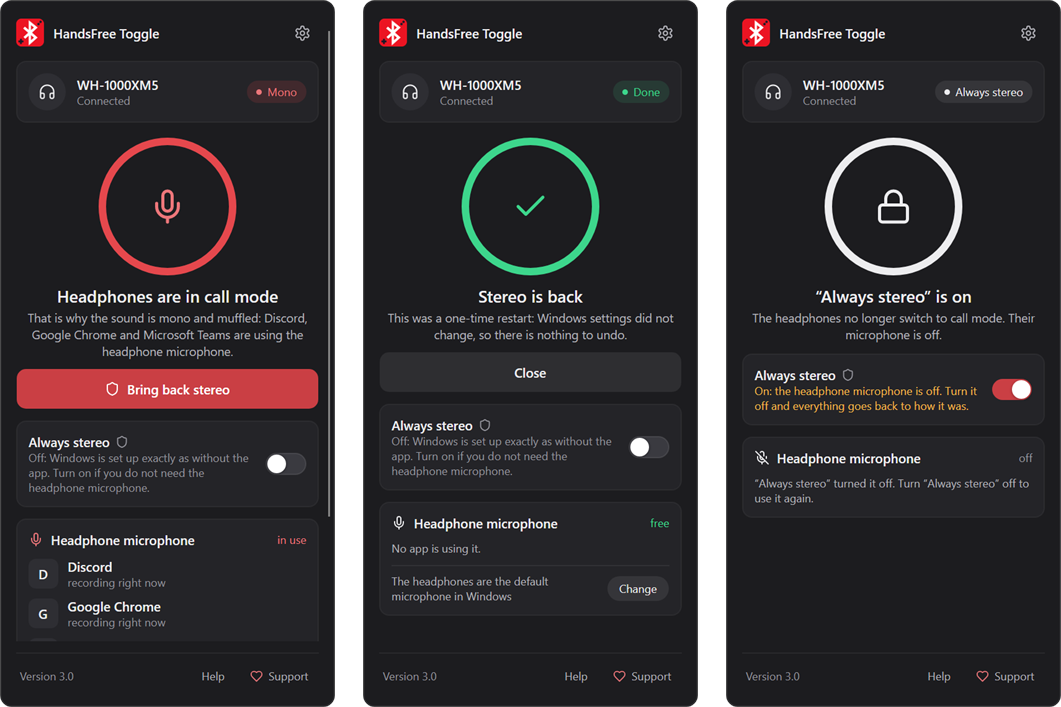
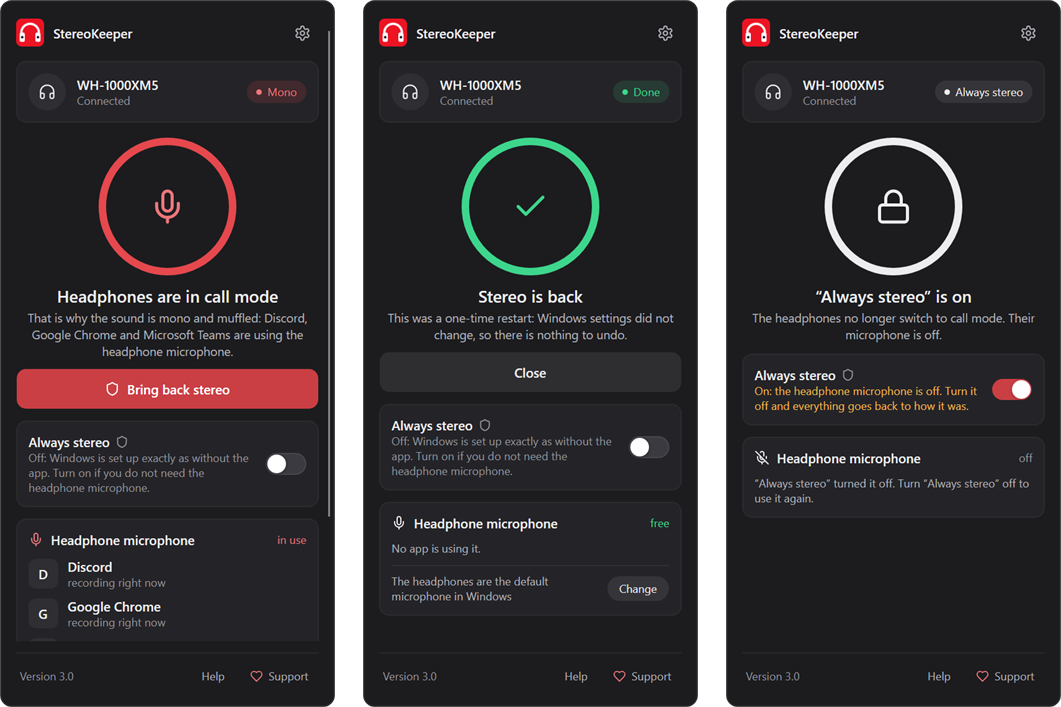
docs: describe StereoKeeper in the README

Changed region(s): [[0.6843, 0.0311, 0.8398, 0.0622], [0.3421, 0.0311, 0.4976, 0.0622], [0.0, 0.0311, 0.1555, 0.0622]]

diff --git a/README.md b/README.md
@@ -1,8 +1,10 @@
 <p align="center">
-  <img src="BluetoothHandsFreeToggle/Assets/AppIcon.png" width="168" alt="BluetoothHandsFreeToggle Windows Bluetooth audio fix logo">
+  <img src="StereoKeeper/Assets/AppIcon.png" width="168" alt="StereoKeeper logo: headphones that stay in stereo on Windows">
 </p>
 
-<h1 align="center">BluetoothHandsFreeToggle</h1>
+<h1 align="center">StereoKeeper</h1>
+
+<p align="center"><sub>Formerly BluetoothHandsFreeToggle</sub></p>
 
 <p align="center">
   <strong>Fix low-quality Bluetooth headset audio and stuck Hands-Free mode on Windows 10 and Windows 11.</strong>
@@ -13,17 +15,17 @@
 </p>
 
 <p align="center">
-  <a href="https://github.com/Avazbek22/BluetoothHandsFreeToggle/releases/latest">
-    <img src="https://img.shields.io/github/v/release/Avazbek22/BluetoothHandsFreeToggle?style=flat-square&color=2ea043&label=release" alt="Latest release">
+  <a href="https://github.com/Avazbek22/StereoKeeper/releases/latest">
+    <img src="https://img.shields.io/github/v/release/Avazbek22/StereoKeeper?style=flat-square&color=2ea043&label=release" alt="Latest release">
   </a>
-  <a href="https://github.com/Avazbek22/BluetoothHandsFreeToggle/releases">
-    <img src="https://img.shields.io/github/downloads/Avazbek22/BluetoothHandsFreeToggle/total?style=flat-square&color=0078d4" alt="Total downloads">
+  <a href="https://github.com/Avazbek22/StereoKeeper/releases">
+    <img src="https://img.shields.io/github/downloads/Avazbek22/StereoKeeper/total?style=flat-square&color=0078d4" alt="Total downloads">
   </a>
   <img src="https://img.shields.io/badge/Windows-10%20%7C%2011-0078D4?style=flat-square&logo=windows11&logoColor=white" alt="Windows 10 and 11">
   <img src="https://img.shields.io/badge/.NET-10-512BD4?style=flat-square&logo=dotnet&logoColor=white" alt=".NET 10">
   <img src="https://img.shields.io/badge/languages-30-EF2D5E?style=flat-square" alt="30 interface languages">
-  <img src="https://img.shields.io/github/license/Avazbek22/BluetoothHandsFreeToggle?style=flat-square" alt="MIT license">
-  <img src="https://img.shields.io/github/repo-size/Avazbek22/BluetoothHandsFreeToggle?style=flat-square" alt="Repository size">
+  <img src="https://img.shields.io/github/license/Avazbek22/StereoKeeper?style=flat-square" alt="MIT license">
+  <img src="https://img.shields.io/github/repo-size/Avazbek22/StereoKeeper?style=flat-square" alt="Repository size">
 </p>
 
 <p align="center">
@@ -42,7 +44,7 @@
 
 > **Call of Duty, Warzone, Discord, or another game opened your Bluetooth microphone—and now the whole game sounds muffled, compressed, or mono?**
 
-BluetoothHandsFreeToggle is a free, open-source Windows tray app that fixes Bluetooth headphones stuck in mono, muffled "phone call" sound on Windows 10 and Windows 11. Windows switches headphones from high-quality A2DP stereo to the Hands-Free Profile (HFP) as soon as Call of Duty voice chat, Discord, a browser, or recording software opens the headset microphone—and sometimes fails to switch back. The app shows when your headphones drop into call mode, names the app that took the microphone, and brings stereo back with one click. **Always stereo** keeps it that way if you use another microphone, and turning it off puts Windows back exactly as it was.
+StereoKeeper (formerly BluetoothHandsFreeToggle) is a free, open-source Windows tray app that fixes Bluetooth headphones stuck in mono, muffled "phone call" sound on Windows 10 and Windows 11. Windows switches headphones from high-quality A2DP stereo to the Hands-Free Profile (HFP) as soon as Call of Duty voice chat, Discord, a browser, or recording software opens the headset microphone—and sometimes fails to switch back. The app shows when your headphones drop into call mode, names the app that took the microphone, and brings stereo back with one click. **Always stereo** keeps it that way if you use another microphone, and turning it off puts Windows back exactly as it was.
 
 ---
 
@@ -50,13 +52,13 @@ BluetoothHandsFreeToggle is a free, open-source Windows tray app that fixes Blue
 ## App demo 🎬
 
 <p align="center">
-  <img src=".github/assets/app-panel.png" width="900" alt="BluetoothHandsFreeToggle tray panel on Windows 11: Bluetooth headphones in call mode because Discord uses the microphone, stereo restored with one click, Always stereo turned on">
+  <img src=".github/assets/app-panel.png" width="900" alt="StereoKeeper tray panel on Windows 11: Bluetooth headphones in call mode because Discord uses the microphone, stereo restored with one click, Always stereo turned on">
 </p>
 
 Click the tray icon: the panel shows whether your headphones play in stereo or are stuck in call mode, which apps hold the headset microphone, and one button to bring stereo back.
 
 <p align="center">
-  <img src=".github/assets/app-screens.png" width="900" alt="BluetoothHandsFreeToggle bringing stereo back with live steps, settings with start with Windows, notifications and copy info for the developer, and the built-in help">
+  <img src=".github/assets/app-screens.png" width="900" alt="StereoKeeper bringing stereo back with live steps, settings with start with Windows, notifications and copy info for the developer, and the built-in help">
 </p>
 
 Every action shows what Windows is doing right now, settings are one click away, and the built-in help explains in plain words what each button changes and how to undo it.
@@ -67,15 +69,15 @@ Every action shows what Windows is doing right now, settings are one click away,
 ## Download 🚀
 
 **Latest GitHub release:**
-👉 [https://github.com/Avazbek22/BluetoothHandsFreeToggle/releases/latest](https://github.com/Avazbek22/BluetoothHandsFreeToggle/releases/latest)
+👉 [https://github.com/Avazbek22/StereoKeeper/releases/latest](https://github.com/Avazbek22/StereoKeeper/releases/latest)
 
-**Install via WinGet (Windows):** `winget install OlimoffDev.BluetoothHandsFreeToggle`
+**Install via WinGet (Windows):** `winget install OlimoffDev.BluetoothHandsFreeToggle`, then run `stereokeeper`. The package ID keeps the former name, so existing installations update as usual.
 
 ---
 
 <p align="center">
   <a href="https://boosty.to/avazbek22">
-    <img src=".github/assets/boosty-support.svg" width="800" alt="Support BluetoothHandsFreeToggle on Boosty">
+    <img src=".github/assets/boosty-support.svg" width="800" alt="Support StereoKeeper on Boosty">
   </a>
 </p>
 
@@ -142,7 +144,7 @@ On Windows 11, A2DP and HFP are exposed through unified audio endpoints, and Win
 
 ## Quick start
 
-1. Download `BluetoothHandsFreeToggle-v<version>-win-x64.exe` (or `win-arm64` for ARM PCs) from the [latest release](https://github.com/Avazbek22/BluetoothHandsFreeToggle/releases/latest), or install it with WinGet.
+1. Download `StereoKeeper-v<version>-win-x64.exe` (or `win-arm64` for ARM PCs) from the [latest release](https://github.com/Avazbek22/StereoKeeper/releases/latest), or install it with WinGet.
 2. Run it. The icon appears in the Windows tray (check the hidden icons arrow and pin it to the taskbar if you like).
 3. Click the icon. If the headphones are in call mode, the panel names the app that is using the headset microphone: close it or choose another microphone in it.
 4. Click **Bring back stereo**. Windows asks for permission each time the app changes services: click **Yes**.
@@ -154,12 +156,12 @@ After an operation, reconnect the headset or restart audio playback if a game ca
 Settings (the gear in the panel) let you start the app with Windows, turn notifications on or off, and pick a language. They are stored in:
 
 ```text
-%AppData%\BluetoothHandsFreeToggle\
+%AppData%\StereoKeeper\
 ```
 
 ## Languages
 
-On the first run, BluetoothHandsFreeToggle checks the ordered Windows UI language preferences and selects the first supported match. Regional fallbacks are handled deliberately: Traditional and Simplified Chinese stay separate, Spanish distinguishes Spain and Latin America, Portuguese distinguishes Brazil and Portugal, and Norwegian variants resolve to Bokmål. Pick another language in the panel's settings; the choice is remembered for future runs.
+On the first run, StereoKeeper checks the ordered Windows UI language preferences and selects the first supported match. Regional fallbacks are handled deliberately: Traditional and Simplified Chinese stay separate, Spanish distinguishes Spain and Latin America, Portuguese distinguishes Brazil and Portugal, and Norwegian variants resolve to Bokmål. Pick another language in the panel's settings; the choice is remembered for future runs.
 
 | | Supported interface languages |
 |:--|:--|
@@ -207,7 +209,7 @@ Turn it off again. The saved state is intentionally kept until every supported s
 
 ### The panel does not open
 
-Windows shows a message with the reason and the log location instead of the panel. If Always stereo is on at that moment, the same message offers to put Windows back as it was, so the headset microphone never stays switched off. Attach the log from `%LocalAppData%\BluetoothHandsFreeToggle\logs\app.log` to your [issue report](https://github.com/Avazbek22/BluetoothHandsFreeToggle/issues/new).
+Windows shows a message with the reason and the log location instead of the panel. If Always stereo is on at that moment, the same message offers to put Windows back as it was, so the headset microphone never stays switched off. Attach the log from `%LocalAppData%\StereoKeeper\logs\app.log` to your [issue report](https://github.com/Avazbek22/StereoKeeper/issues/new).
 
 ## Safety and recovery
 
@@ -216,6 +218,8 @@ Before Always stereo changes service configuration, the original state is stored
 ```text
 %ProgramData%\BluetoothHandsFreeToggle\backup.json
 ```
+
+The folder keeps the app's former name on purpose: a state saved by version 2.x is still found and restored.
 
 Recovery behavior is intentionally conservative:
 
@@ -232,7 +236,7 @@ Recovery behavior is intentionally conservative:
 
 ### Hung service recovery
 
-Windows sometimes leaves an HFP service hung in the *Stopping* state. The Service Control Manager then rejects every further start or stop request until the service's process exits, which normally means a reboot. BluetoothHandsFreeToggle detects this case and resolves it safely:
+Windows sometimes leaves an HFP service hung in the *Stopping* state. The Service Control Manager then rejects every further start or stop request until the service's process exits, which normally means a reboot. StereoKeeper detects this case and resolves it safely:
 
 - Transitions are tracked with the service's own checkpoint and wait hint, the way the SCM protocol intends. A slow service that keeps reporting progress is never treated as hung.
 - A service is considered hung only after it stops reporting progress for its declared wait hint (clamped to 5–15 seconds).
@@ -301,7 +305,7 @@ Bring back stereo changes nothing permanently. Always stereo is the only setting
 2. In the panel's settings, turn off **Start with Windows**.
 3. Quit the app and uninstall it (Settings → Apps, `winget uninstall`, or delete the file if you downloaded it yourself).
 
-Do step 1 before uninstalling: once removed, the app can no longer restore the headset microphone. Only the app's settings in `%AppData%\BluetoothHandsFreeToggle` and its log in `%LocalAppData%\BluetoothHandsFreeToggle` remain; you can delete those folders.
+Do step 1 before uninstalling: once removed, the app can no longer restore the headset microphone. Only the app's settings in `%AppData%\StereoKeeper` and its log in `%LocalAppData%\StereoKeeper` remain (after an update from 2.x, also `%AppData%\BluetoothHandsFreeToggle`); you can delete those folders.
 
 ### Does it work with AirPods, Sony, Bose, JBL, or my gaming headset?
 
@@ -315,6 +319,10 @@ That manual workaround switches HFP off for one paired device and has to be undo
 
 Showing the status needs no special rights. Windows asks for permission only when you click Bring back stereo or flip Always stereo; that part runs in a separate short-lived process. The app installs no service or driver, and it starts with Windows only if you turn that on in Settings.
 
+### Why is it called StereoKeeper now?
+
+Up to version 2.2 the app was called BluetoothHandsFreeToggle. Version 3.0 renamed it to StereoKeeper: the name says what the app does, keeps your headphones in stereo, and leaves out the Bluetooth trademark. Old GitHub links redirect here, the WinGet package ID `OlimoffDev.BluetoothHandsFreeToggle` stays the same, and the Windows state saved by Hard mode in 2.x is still restored when you turn Always stereo off.
+
 ### Do I need to install .NET?
 
 No. The official `win-x64` release is a self-contained single executable. The .NET 10 SDK is required only when building the project from source.
@@ -324,14 +332,14 @@ No. The official `win-x64` release is a self-contained single executable. The .N
 The codebase keeps Windows-specific operations separate from recovery logic:
 
 ```text
-BluetoothHandsFreeToggle/
+StereoKeeper/
 ├── App/            Startup, single instance, elevated worker, and crash log
 ├── Core/           Stereo restart, Always stereo, restore, status, and backup logic
 ├── Gui/            Tray icon, panel, and notifications (Avalonia)
 ├── Localization/   30-language resources and smart culture matching
 └── Windows/        Service Control Manager and Core Audio integration
 
-BluetoothHandsFreeToggle.Tests/
+StereoKeeper.Tests/
 └── Unit and headless UI tests for state transitions, backups, failures, the panel, and localization
 ```
 
@@ -346,8 +354,8 @@ Requirements:
 - Git.
 
 ```powershell
-git clone https://github.com/Avazbek22/BluetoothHandsFreeToggle.git
-cd BluetoothHandsFreeToggle
+git clone https://github.com/Avazbek22/StereoKeeper.git
+cd StereoKeeper
 
 dotnet restore
 dotnet build --configuration Release --no-restore
@@ -361,7 +369,14 @@ Create verified release artifacts for `win-x64` and `win-arm64`:
 ```
 
 The release script requires a clean `master` branch synchronized with `origin/master`,
-runs all tests, publishes both architectures, and generates SHA-256 checksums. For a
+runs all tests, publishes both architectures, and generates SHA-256 checksums. Release
+notes live in `docs/release-notes/v<version>.md`; the script stops if they are missing.
+To also create the tag and the GitHub release with the files and those notes (GitHub CLI
+signed in), add `-CreateGitHubRelease`, and `-Draft` to review it before publishing:
+
+```powershell
+.\scripts\Publish-Release.ps1 -CreateGitHubRelease -Draft
+``` For a
 local packaging test from another branch or a dirty working tree:
 
 ```powershell
@@ -388,11 +403,11 @@ This produces x64/Arm64 manifests plus localized metadata for all 30 interface l
 
 ## Support the project
 
-BluetoothHandsFreeToggle is free and open source. If it saved your game night, stream, meeting, or debugging session, consider supporting continued development and testing:
+StereoKeeper is free and open source. If it saved your game night, stream, meeting, or debugging session, consider supporting continued development and testing:
 
 <p align="center">
   <a href="https://boosty.to/avazbek22">
-    <img src=".github/assets/boosty-support.svg" width="800" alt="Support BluetoothHandsFreeToggle on Boosty">
+    <img src=".github/assets/boosty-support.svg" width="800" alt="Support StereoKeeper on Boosty">
   </a>
 </p>
 
@@ -400,8 +415,8 @@ BluetoothHandsFreeToggle is free and open source. If it saved your game night, s
 
 Bug reports, reproducible Windows/Bluetooth edge cases, and focused pull requests are welcome. The quickest way to report a problem: open Settings, click **Copy info for the developer**, and paste the result into a new issue together with your headset model and the app that triggered call mode.
 
-- [Open an issue](https://github.com/Avazbek22/BluetoothHandsFreeToggle/issues/new)
-- [View the source](https://github.com/Avazbek22/BluetoothHandsFreeToggle)
+- [Open an issue](https://github.com/Avazbek22/StereoKeeper/issues/new)
+- [View the source](https://github.com/Avazbek22/StereoKeeper)
 
 ## License
 
